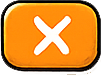
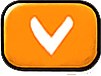
Refine language help modal flow

Changed region(s): [[0.2673, 0.1842, 0.7426, 0.7632]]

diff --git a/index.html b/index.html
@@ -88,23 +88,29 @@ button:focus,input:focus{outline:0}
 .hit{position:absolute;z-index:10000;background:rgba(255,255,255,0)}
 .debug-frame{position:absolute;inset:0;width:100%;height:100%;display:none;opacity:.35;pointer-events:none;z-index:9999}
 #nameInput{position:absolute;z-index:10001;left:18.611111%;top:61.041667%;width:51.851852%;height:3.020833%;border:0;outline:0;background:transparent;color:#111;font:400 min(4.444444cqw,5.208333cqh)/1.2 "Balsamiq Sans", Arial, sans-serif}
-.helpOverlay{position:fixed;inset:0;z-index:70000;display:flex;align-items:center;justify-content:center;padding:calc(var(--safe-top) + 18px) calc(var(--safe-right) + 18px) calc(var(--safe-bottom) + 18px) calc(var(--safe-left) + 18px);background:rgba(0,0,0,.58)}
+.helpOverlay{position:fixed;inset:0;z-index:70000;display:flex;align-items:center;justify-content:center;padding:calc(var(--safe-top) + 10px) calc(var(--safe-right) + 10px) calc(var(--safe-bottom) + 10px) calc(var(--safe-left) + 10px);background:rgba(0,0,0,.58)}
 .helpOverlay.hidden{display:none}
-.helpCard{position:relative;container-type:size;width:min(88vw,calc((var(--app-vh) - var(--safe-top) - var(--safe-bottom) - 36px) * .58));aspect-ratio:955/1536;max-height:calc(var(--app-vh) - var(--safe-top) - var(--safe-bottom) - 36px);font-family:"Balsamiq Sans",Arial,sans-serif;color:#211812}
-.helpFrame{position:absolute;inset:0;width:100%;height:100%;object-fit:fill;pointer-events:none}
-.helpCat{position:absolute;left:20%;top:4.5%;width:60%;height:auto;pointer-events:none}
-.helpPageTitle{position:absolute;left:11%;top:25%;width:78%;text-align:center;font-weight:700;font-size:min(7.2cqw,4.05cqh);line-height:1.06}
-.helpPageBody{position:absolute;left:13%;top:34%;width:74%;text-align:center;font-weight:700;font-size:min(4.35cqw,2.45cqh);line-height:1.18}
-.helpIconRow{position:absolute;left:13%;right:13%;top:56%;display:flex;align-items:flex-start;justify-content:space-around}
-.helpIconBlock{display:flex;flex-direction:column;align-items:center;gap:min(2.2cqw,1.25cqh);width:28%;text-align:center;font-weight:700;font-size:min(3.25cqw,1.83cqh);line-height:1.12}
-.helpIconBlock img{width:min(13cqw,7.3cqh);height:min(13cqw,7.3cqh);object-fit:contain}
-.helpNavBtn{position:absolute;bottom:5.4%;width:min(19cqw,10.7cqh);height:min(9.6cqw,5.4cqh);border:0;background:transparent;padding:0;z-index:2}
+.helpCard{position:relative;container-type:size;width:min(94vw,calc((var(--app-vh) - var(--safe-top) - var(--safe-bottom) - 20px) * 955 / 1566));aspect-ratio:955/1566;max-height:calc(var(--app-vh) - var(--safe-top) - var(--safe-bottom) - 20px);font-family:"Balsamiq Sans",Arial,sans-serif;color:#211812}
+.helpFrame{position:absolute;inset:0;width:100%;height:100%;object-fit:contain;pointer-events:none}
+.helpPage{position:absolute;left:0;top:0;width:100%;height:100%}
+.helpPage.hidden{display:none}
+.helpCat{position:absolute;left:30.6%;top:7.5%;width:38.5%;height:auto;pointer-events:none}
+.helpPageTitle{position:absolute;left:11.5%;top:23.2%;width:77%;text-align:center;font-weight:700;font-size:min(7.1cqw,4.33cqh);line-height:1.05}
+.helpPageBody{position:absolute;left:12.6%;top:31%;width:74.8%;text-align:center;font-weight:400;font-size:min(4.3cqw,2.62cqh);line-height:1.18}
+.helpFeature{position:absolute;left:14.2%;width:71.6%;display:grid;grid-template-columns:min(17cqw,10.4cqh) 1fr;column-gap:min(3.2cqw,1.95cqh);align-items:center;text-align:left;font-weight:700;font-size:min(4.15cqw,2.53cqh);line-height:1.12}
+.helpFeature img{width:min(15.5cqw,9.45cqh);height:min(15.5cqw,9.45cqh);object-fit:contain;justify-self:center}
+.helpFeature span{display:block}
+.helpFeature small{display:block;margin-top:min(.9cqw,.55cqh);font-weight:400;font-size:min(3.35cqw,2.04cqh);line-height:1.12}
+.helpFeatureA{top:52.3%}
+.helpFeatureB{top:62.7%}
+.helpFeatureC{top:73.1%}
+.helpCounter{position:absolute;left:41.5%;bottom:7.6%;width:17%;text-align:center;font-weight:700;font-size:min(5.25cqw,3.2cqh);line-height:1;color:#211812}
+.helpNavBtn{position:absolute;bottom:5.4%;width:min(20.6cqw,12.56cqh);height:min(10.9cqw,6.65cqh);border:0;background:transparent;padding:0;z-index:2}
 .helpNavBtn img{width:100%;height:100%;object-fit:contain;display:block;pointer-events:none}
-.helpPrev{left:25%}
-.helpNext{right:25%;transform:scaleX(-1)}
-.helpClose{position:absolute;right:8.5%;top:5.7%;width:min(11cqw,6.2cqh);height:min(11cqw,6.2cqh);border:0;background:transparent;padding:0;z-index:3}
-.helpClose img{width:100%;height:100%;object-fit:contain;display:block;pointer-events:none}
-.helpNavBtn.hidden,.helpClose.hidden,.helpCat.hidden,.helpIconBlock.hidden{display:none}
+.helpPrev{left:19.2%}
+.helpNext{right:19.2%;transform:scaleX(-1)}
+.helpOk{right:19.2%}
+.helpNavBtn.hidden{display:none}
 </style>
 </head>
 <body>
@@ -290,21 +296,47 @@ button:focus,input:focus{outline:0}
 <div class="buttonText" id="profileButtonText">ТРЕНИРОВКА</div>
 </div></div></section>
 </div>
-<div class="helpOverlay hidden" id="helpOverlay" role="dialog" aria-modal="true" aria-labelledby="helpTitle">
+<div class="helpOverlay hidden" id="helpOverlay" role="dialog" aria-modal="true" aria-labelledby="helpTitleOne">
   <div class="helpCard">
     <img class="helpFrame" src="assets/HelpScreen/HelpFon.png" alt="">
-    <img class="helpCat" id="helpCatOk" src="assets/HelpScreen/Cat_Ok.png" alt="">
-    <img class="helpCat hidden" id="helpCatLove" src="assets/HelpScreen/Cat_Love.png" alt="">
-    <button class="helpClose hidden" id="helpCloseBtn" type="button" aria-label="Close"><img src="assets/HelpScreen/Btn_Close.png" alt=""></button>
-    <div class="helpPageTitle" id="helpTitle"></div>
-    <div class="helpPageBody" id="helpBody"></div>
-    <div class="helpIconRow">
-      <div class="helpIconBlock" id="helpIconA"><img src="assets/HelpScreen/Icon_Rupor.png" alt=""><span></span></div>
-      <div class="helpIconBlock" id="helpIconB"><img src="assets/HelpScreen/Icon_Talk.png" alt=""><span></span></div>
-      <div class="helpIconBlock" id="helpIconC"><img src="assets/HelpScreen/Icon_Hart.png" alt=""><span></span></div>
+    <div class="helpPage" id="helpPageOne">
+      <img class="helpCat" src="assets/HelpScreen/Cat_Ok.png" alt="">
+      <div class="helpPageTitle" id="helpTitleOne"></div>
+      <div class="helpPageBody" id="helpBodyOne"></div>
+      <div class="helpFeature helpFeatureA">
+        <img src="assets/HelpScreen/Icon_Rupor.png" alt="">
+        <span id="helpOneFeatureA"></span>
+      </div>
+      <div class="helpFeature helpFeatureB">
+        <img src="assets/HelpScreen/Icon_Talk.png" alt="">
+        <span id="helpOneFeatureB"></span>
+      </div>
+      <div class="helpFeature helpFeatureC">
+        <img src="assets/HelpScreen/Icon_Hart.png" alt="">
+        <span id="helpOneFeatureC"></span>
+      </div>
     </div>
+    <div class="helpPage hidden" id="helpPageTwo">
+      <img class="helpCat" src="assets/HelpScreen/Cat_Love.png" alt="">
+      <div class="helpPageTitle" id="helpTitleTwo"></div>
+      <div class="helpPageBody" id="helpBodyTwo"></div>
+      <div class="helpFeature helpFeatureA">
+        <img src="assets/HelpScreen/Icon_Cantel.png" alt="">
+        <span id="helpTwoFeatureA"></span>
+      </div>
+      <div class="helpFeature helpFeatureB">
+        <img src="assets/HelpScreen/Icon_Sheld.png" alt="">
+        <span id="helpTwoFeatureB"></span>
+      </div>
+      <div class="helpFeature helpFeatureC">
+        <img src="assets/HelpScreen/Icon_Hart.png" alt="">
+        <span id="helpTwoFeatureC"></span>
+      </div>
+    </div>
+    <div class="helpCounter" id="helpCounter">1/2</div>
     <button class="helpNavBtn helpPrev hidden" id="helpPrevBtn" type="button" aria-label="Previous"><img src="assets/HelpScreen/Btn_Strelka.png" alt=""></button>
     <button class="helpNavBtn helpNext" id="helpNextBtn" type="button" aria-label="Next"><img src="assets/HelpScreen/Btn_Strelka.png" alt=""></button>
+    <button class="helpNavBtn helpOk hidden" id="helpOkBtn" type="button" aria-label="OK"><img src="assets/HelpScreen/Btn_Close.png" alt=""></button>
   </div>
 </div>
 <div id="debugPanel">
@@ -359,12 +391,12 @@ const labels={
 };
 const helpPages={
   ru:[
-    {cat:'ok',title:'\u041a\u0430\u043a \u044d\u0442\u043e \u0440\u0430\u0431\u043e\u0442\u0430\u0435\u0442',body:'\u0421\u043e\u0431\u0435\u0440\u0438 \u0441\u0432\u043e\u0435\u0433\u043e \u0433\u0435\u0440\u043e\u044f \u0438 \u043d\u0430\u0447\u0438\u043d\u0430\u0439 \u0433\u043e\u043b\u043e\u0441\u043e\u0432\u044b\u0435 \u0442\u0440\u0435\u043d\u0438\u0440\u043e\u0432\u043a\u0438. \u041f\u0440\u0438\u043b\u043e\u0436\u0435\u043d\u0438\u0435 \u0431\u0443\u0434\u0435\u0442 \u0441\u0447\u0438\u0442\u0430\u0442\u044c \u0442\u0432\u043e\u0439 \u043f\u0440\u043e\u0433\u0440\u0435\u0441\u0441.',icons:[['Icon_Rupor.png','\u0421\u043b\u0443\u0448\u0430\u0439'],['Icon_Talk.png','\u041f\u043e\u0432\u0442\u043e\u0440\u044f\u0439'],['Icon_Hart.png','\u0420\u0430\u0441\u0442\u0438']]},
-    {cat:'love',title:'\u0422\u0440\u0435\u043d\u0438\u0440\u0443\u0439\u0441\u044f \u0440\u0435\u0433\u0443\u043b\u044f\u0440\u043d\u043e',body:'\u0417\u0430 \u0432\u044b\u043f\u043e\u043b\u043d\u0435\u043d\u043d\u044b\u0439 \u0434\u0435\u043d\u044c \u0440\u0430\u0441\u0442\u0435\u0442 \u043e\u043f\u044b\u0442 \u0438 \u0441\u0435\u0440\u0438\u044f. \u0417\u0430\u043c\u043e\u0440\u043e\u0437\u043a\u0438 \u043f\u043e\u043c\u043e\u0433\u0443\u0442 \u0441\u043e\u0445\u0440\u0430\u043d\u0438\u0442\u044c \u0440\u0438\u0442\u043c.',icons:[['Icon_Cantel.png','\u0422\u0440\u0435\u043d\u0438\u0440\u0443\u0439'],['Icon_Sheld.png','\u0411\u0435\u0440\u0435\u0433\u0438 \u0441\u0435\u0440\u0438\u044e'],['Icon_Hart.png','\u041f\u043e\u043b\u0443\u0447\u0430\u0439 XP']]}
+    {title:'\u041f\u0440\u0438\u0432\u0435\u0442! \u042f \u043f\u043e\u043c\u043e\u0433\u0443 \u0441 \u0442\u0440\u0435\u043d\u0438\u0440\u043e\u0432\u043a\u0430\u043c\u0438',body:'\u0412\u044b\u0431\u0435\u0440\u0438 \u0433\u0435\u0440\u043e\u044f, \u0432\u043a\u043b\u044e\u0447\u0430\u0439 \u0437\u0430\u0434\u0430\u043d\u0438\u044f \u0438 \u0442\u0440\u0435\u043d\u0438\u0440\u0443\u0439 \u0433\u043e\u043b\u043e\u0441 \u043a\u0430\u0436\u0434\u044b\u0439 \u0434\u0435\u043d\u044c. \u0417\u0430 \u0440\u0435\u0433\u0443\u043b\u044f\u0440\u043d\u043e\u0441\u0442\u044c \u0433\u0435\u0440\u043e\u0439 \u0431\u0443\u0434\u0435\u0442 \u0440\u0430\u0441\u0442\u0438 \u0438 \u0441\u0442\u0430\u043d\u043e\u0432\u0438\u0442\u044c\u0441\u044f \u0441\u0438\u043b\u044c\u043d\u0435\u0435.',features:['\u0421\u043b\u0443\u0448\u0430\u0439 \u0437\u0430\u0434\u0430\u043d\u0438\u0435<small>\u041f\u043e\u0432\u0442\u043e\u0440\u044f\u0439 \u0444\u0440\u0430\u0437\u044b \u0438 \u0441\u043b\u0435\u0434\u0438 \u0437\u0430 \u0440\u0438\u0442\u043c\u043e\u043c.</small>','\u0413\u043e\u0432\u043e\u0440\u0438 \u0432\u0441\u043b\u0443\u0445<small>\u0413\u043e\u043b\u043e\u0441\u043e\u0432\u044b\u0435 \u0443\u043f\u0440\u0430\u0436\u043d\u0435\u043d\u0438\u044f \u0437\u0430\u0441\u0447\u0438\u0442\u044b\u0432\u0430\u044e\u0442 \u0434\u0435\u043d\u044c.</small>','\u041a\u043e\u043f\u0438 \u043e\u043f\u044b\u0442<small>\u0427\u0435\u043c \u0447\u0430\u0449\u0435 \u0437\u0430\u043d\u0438\u043c\u0430\u0435\u0448\u044c\u0441\u044f, \u0442\u0435\u043c \u0431\u044b\u0441\u0442\u0440\u0435\u0435 \u0440\u0430\u0441\u0442\u0435\u0448\u044c.</small>']},
+    {title:'\u041a\u0430\u043a \u0440\u0430\u0441\u0442\u0435\u0442 \u0433\u0435\u0440\u043e\u0439',body:'\u041e\u0434\u0438\u043d \u0434\u0435\u043d\u044c \u043c\u043e\u0436\u043d\u043e \u0437\u0430\u0441\u0447\u0438\u0442\u0430\u0442\u044c \u0442\u043e\u043b\u044c\u043a\u043e \u043e\u0434\u0438\u043d \u0440\u0430\u0437. \u0415\u0441\u043b\u0438 \u043f\u0440\u043e\u043f\u0443\u0441\u0442\u0438\u043b \u0442\u0440\u0435\u043d\u0438\u0440\u043e\u0432\u043a\u0443, \u0437\u0430\u043c\u043e\u0440\u043e\u0437\u043a\u0430 \u043f\u043e\u043c\u043e\u0436\u0435\u0442 \u0441\u043e\u0445\u0440\u0430\u043d\u0438\u0442\u044c \u0441\u0435\u0440\u0438\u044e.',features:['\u0422\u0440\u0435\u043d\u0438\u0440\u0443\u0439\u0441\u044f<small>\u041f\u043e\u043b\u0443\u0447\u0430\u0439 XP \u0437\u0430 \u0432\u044b\u043f\u043e\u043b\u043d\u0435\u043d\u043d\u044b\u0435 \u0437\u0430\u0434\u0430\u043d\u0438\u044f.</small>','\u0411\u0435\u0440\u0435\u0433\u0438 \u0441\u0435\u0440\u0438\u044e<small>\u0417\u0430\u043c\u043e\u0440\u043e\u0437\u043a\u0438 \u0441\u043f\u0430\u0441\u0430\u044e\u0442 \u0441\u0442\u0440\u0438\u043a \u043f\u0440\u0438 \u043f\u0440\u043e\u043f\u0443\u0441\u043a\u0435.</small>','\u0420\u0430\u0441\u0442\u0438 \u0434\u0430\u043b\u044c\u0448\u0435<small>\u0423\u0440\u043e\u0432\u0435\u043d\u044c \u0438 \u0441\u0442\u0430\u0442\u0443\u0441 \u0431\u0443\u0434\u0443\u0442 \u043c\u0435\u043d\u044f\u0442\u044c\u0441\u044f.</small>']}
   ],
   en:[
-    {cat:'ok',title:'How it works',body:'Build your hero and start voice workouts. The app will track your daily progress.',icons:[['Icon_Rupor.png','Listen'],['Icon_Talk.png','Repeat'],['Icon_Hart.png','Grow']]},
-    {cat:'love',title:'Train regularly',body:'A completed day grows your XP and streak. Freezes help keep the rhythm when you miss a day.',icons:[['Icon_Cantel.png','Train'],['Icon_Sheld.png','Protect streak'],['Icon_Hart.png','Earn XP']]}
+    {title:'Hi! I will help with training',body:'Choose your hero, start tasks, and train your voice every day. Your hero grows stronger when you keep practicing regularly.',features:['Listen to the task<small>Repeat phrases and keep the rhythm.</small>','Speak out loud<small>Voice exercises count toward your day.</small>','Earn experience<small>The more often you train, the faster you grow.</small>']},
+    {title:'How your hero grows',body:'A training day can be counted only once. If you miss a workout, a freeze helps protect your streak.',features:['Train<small>Get XP for completed tasks.</small>','Protect streak<small>Freezes save your rhythm when you miss a day.</small>','Keep growing<small>Your level and status will change over time.</small>']}
   ]
 };
 const colors={red:[231,76,60],orange:[242,140,24],yellow:[241,196,15],green:[106,201,67],blue:[36,151,216],purple:[142,68,173]};
@@ -569,24 +601,21 @@ function show(name){
 }
 let helpPage=0;
 function renderHelp(){
-  const page=(helpPages[state.lang]||helpPages.ru)[helpPage];
-  if(!page)return;
-  document.getElementById('helpTitle').textContent=page.title;
-  document.getElementById('helpBody').textContent=page.body;
-  document.getElementById('helpCatOk').classList.toggle('hidden',page.cat!=='ok');
-  document.getElementById('helpCatLove').classList.toggle('hidden',page.cat!=='love');
-  ['A','B','C'].forEach((key,i)=>{
-    const block=document.getElementById(`helpIcon${key}`);
-    const item=page.icons[i];
-    block.classList.toggle('hidden',!item);
-    if(item){
-      block.querySelector('img').src=`assets/HelpScreen/${item[0]}`;
-      block.querySelector('span').textContent=item[1];
-    }
+  const pages=helpPages[state.lang]||helpPages.ru;
+  pages.forEach((page,pageIndex)=>{
+    const suffix=pageIndex===0?'One':'Two';
+    document.getElementById(`helpTitle${suffix}`).textContent=page.title;
+    document.getElementById(`helpBody${suffix}`).textContent=page.body;
+    ['A','B','C'].forEach((key,i)=>{
+      document.getElementById(`help${suffix}Feature${key}`).innerHTML=page.features[i]||'';
+    });
   });
+  document.getElementById('helpPageOne').classList.toggle('hidden',helpPage!==0);
+  document.getElementById('helpPageTwo').classList.toggle('hidden',helpPage!==1);
+  document.getElementById('helpCounter').textContent=`${helpPage+1}/${pages.length}`;
   document.getElementById('helpPrevBtn').classList.toggle('hidden',helpPage===0);
-  document.getElementById('helpNextBtn').classList.toggle('hidden',helpPage>=(helpPages[state.lang]||helpPages.ru).length-1);
-  document.getElementById('helpCloseBtn').classList.toggle('hidden',helpPage<1);
+  document.getElementById('helpNextBtn').classList.toggle('hidden',helpPage>=pages.length-1);
+  document.getElementById('helpOkBtn').classList.toggle('hidden',helpPage<pages.length-1);
 }
 function openHelp(){
   helpPage=0;
@@ -895,7 +924,7 @@ document.getElementById('continueBtn')?.addEventListener('pointerdown',()=>pulse
 document.getElementById('continueBtn')?.addEventListener('click',openHelp);
 document.getElementById('helpNextBtn')?.addEventListener('click',()=>{helpPage=Math.min(helpPage+1,(helpPages[state.lang]||helpPages.ru).length-1);renderHelp()});
 document.getElementById('helpPrevBtn')?.addEventListener('click',()=>{helpPage=Math.max(helpPage-1,0);renderHelp()});
-document.getElementById('helpCloseBtn')?.addEventListener('click',closeHelp);
+document.getElementById('helpOkBtn')?.addEventListener('click',closeHelp);
 document.getElementById('boyPick')?.addEventListener('click',()=>{state.character='boy';save();sync();pulseCatLike()});
 document.getElementById('girlPick')?.addEventListener('click',()=>{state.character='girl';save();sync();pulseCatLike()});
 document.querySelectorAll('.colorPick').forEach(btn=>btn.addEventListener('click',()=>{state.color=btn.dataset.color;save();sync();pulseCatLike()}));

diff --git a/sw.js b/sw.js
@@ -1,4 +1,4 @@
-const CACHE_NAME = 'fitvoice-pwa-v11';
+const CACHE_NAME = 'fitvoice-pwa-v12';
 
 self.addEventListener('install', event => {
   self.skipWaiting();